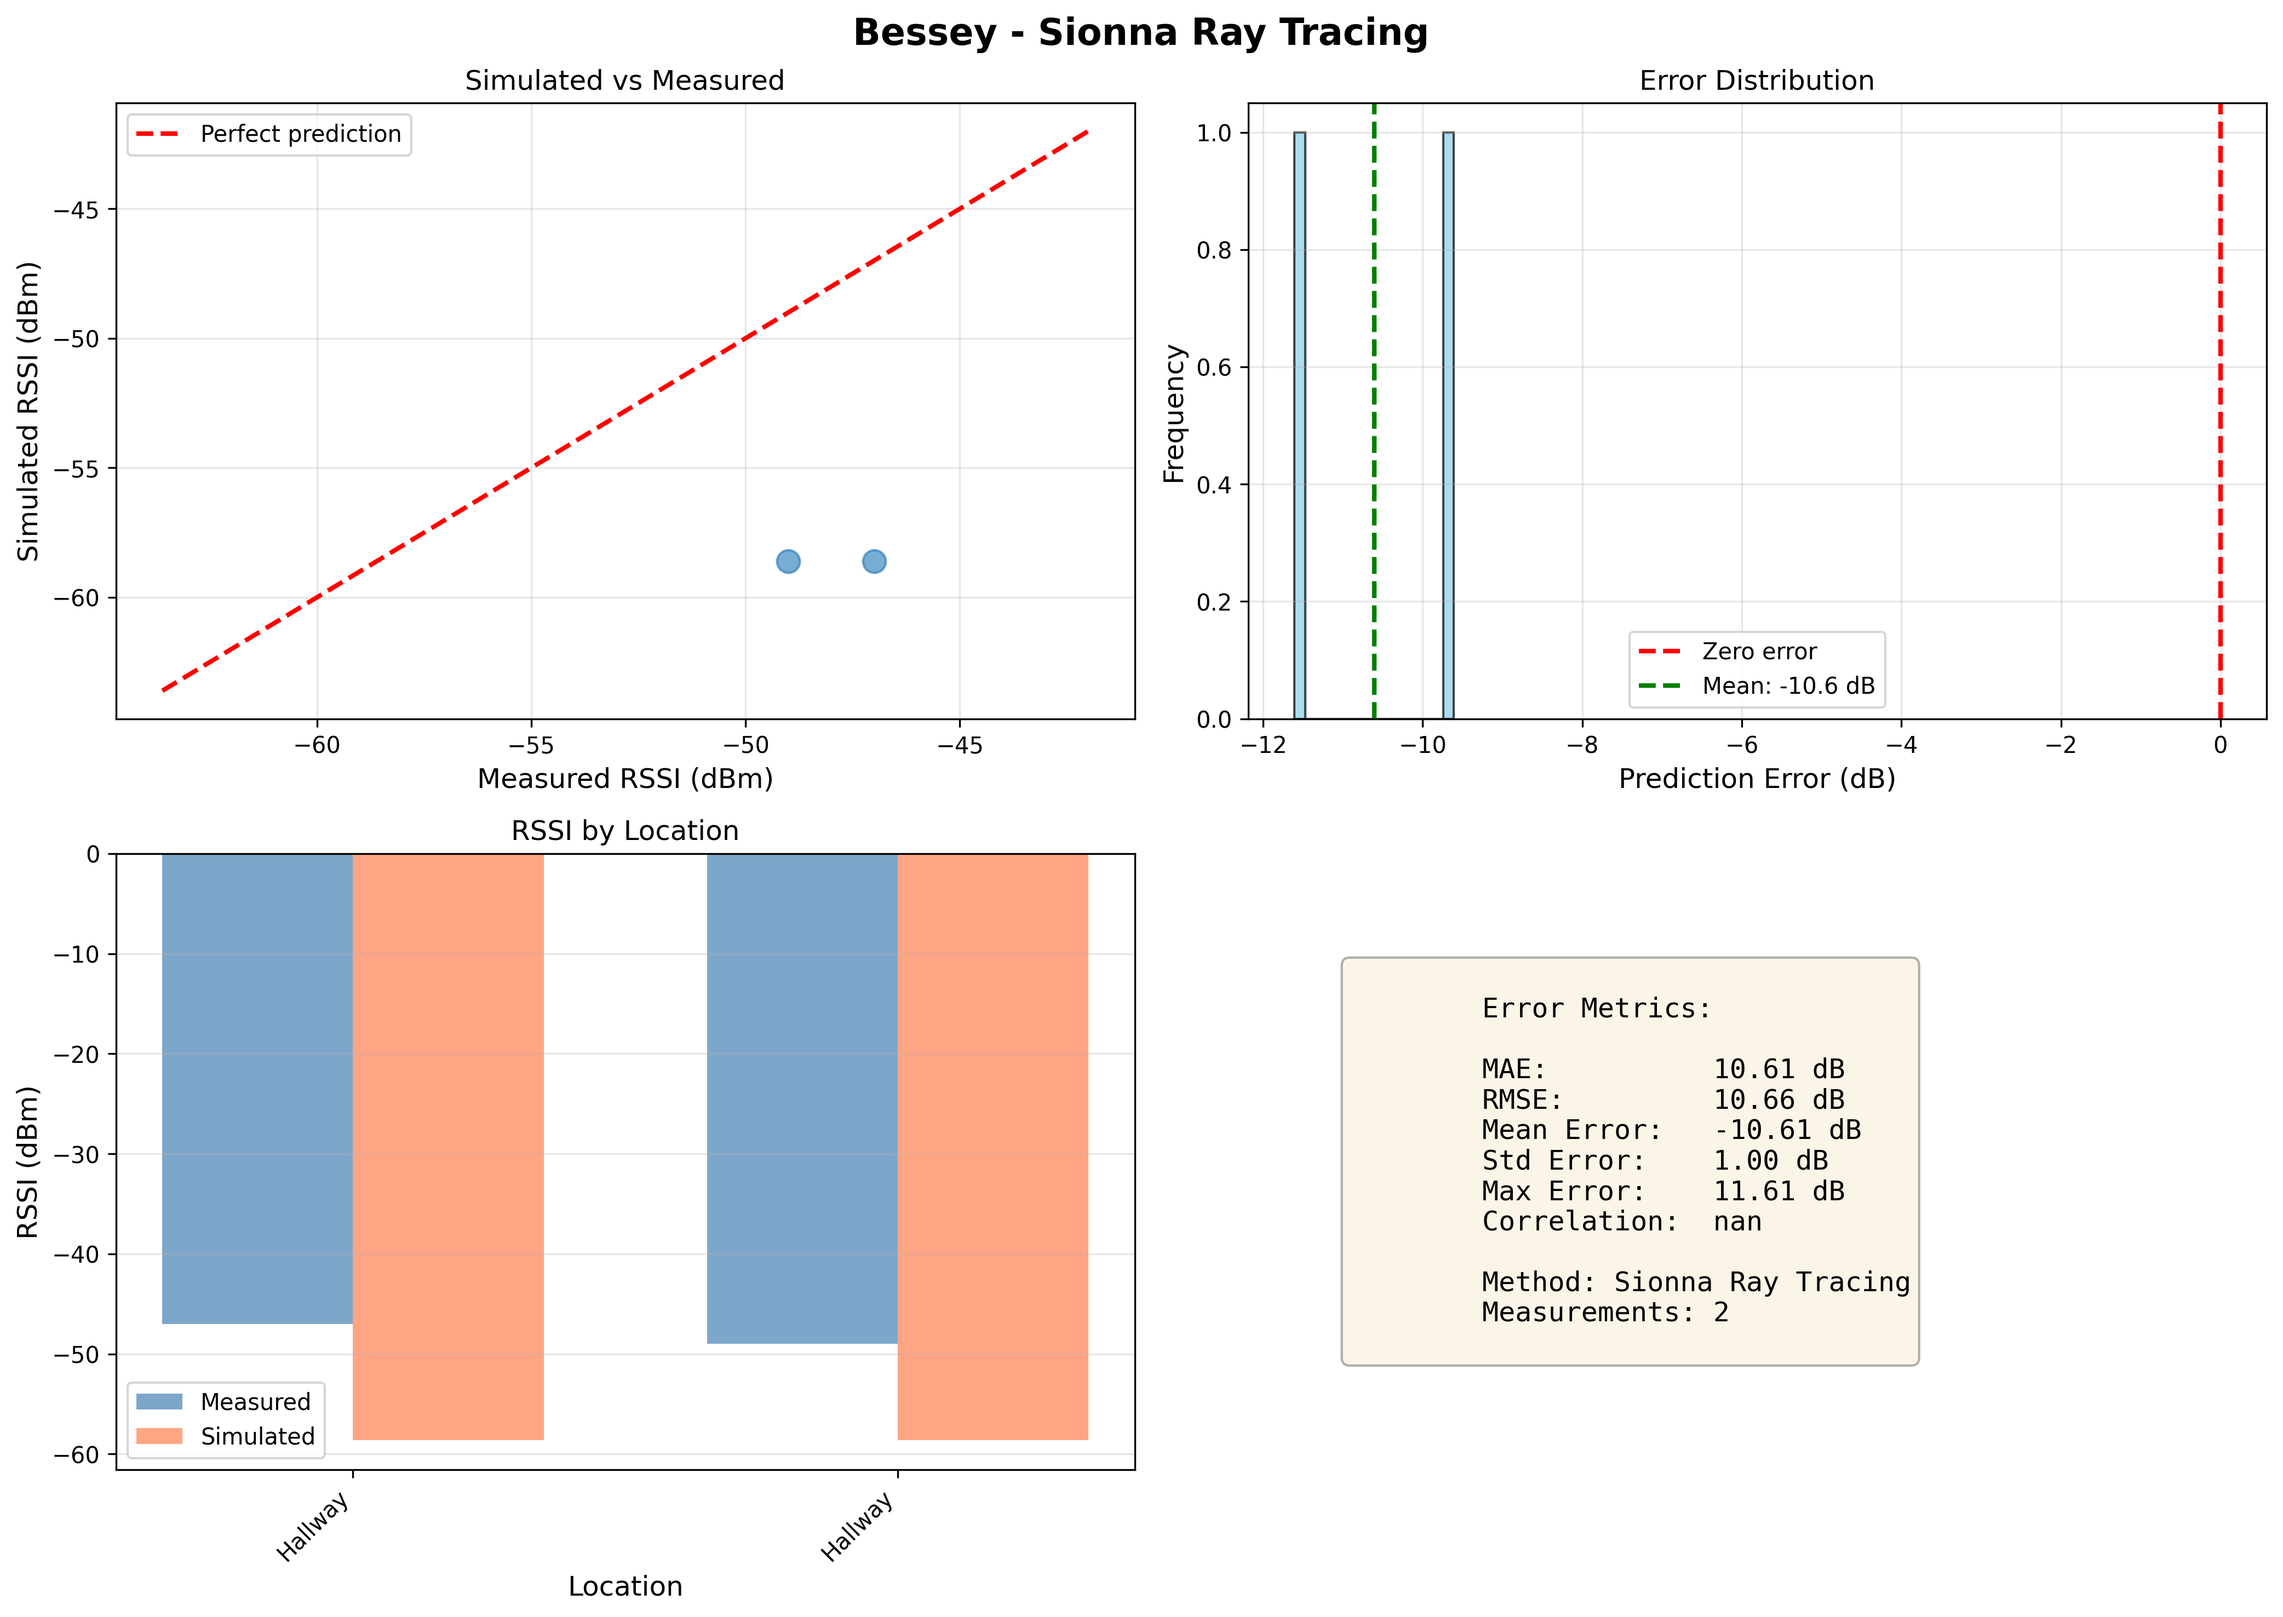
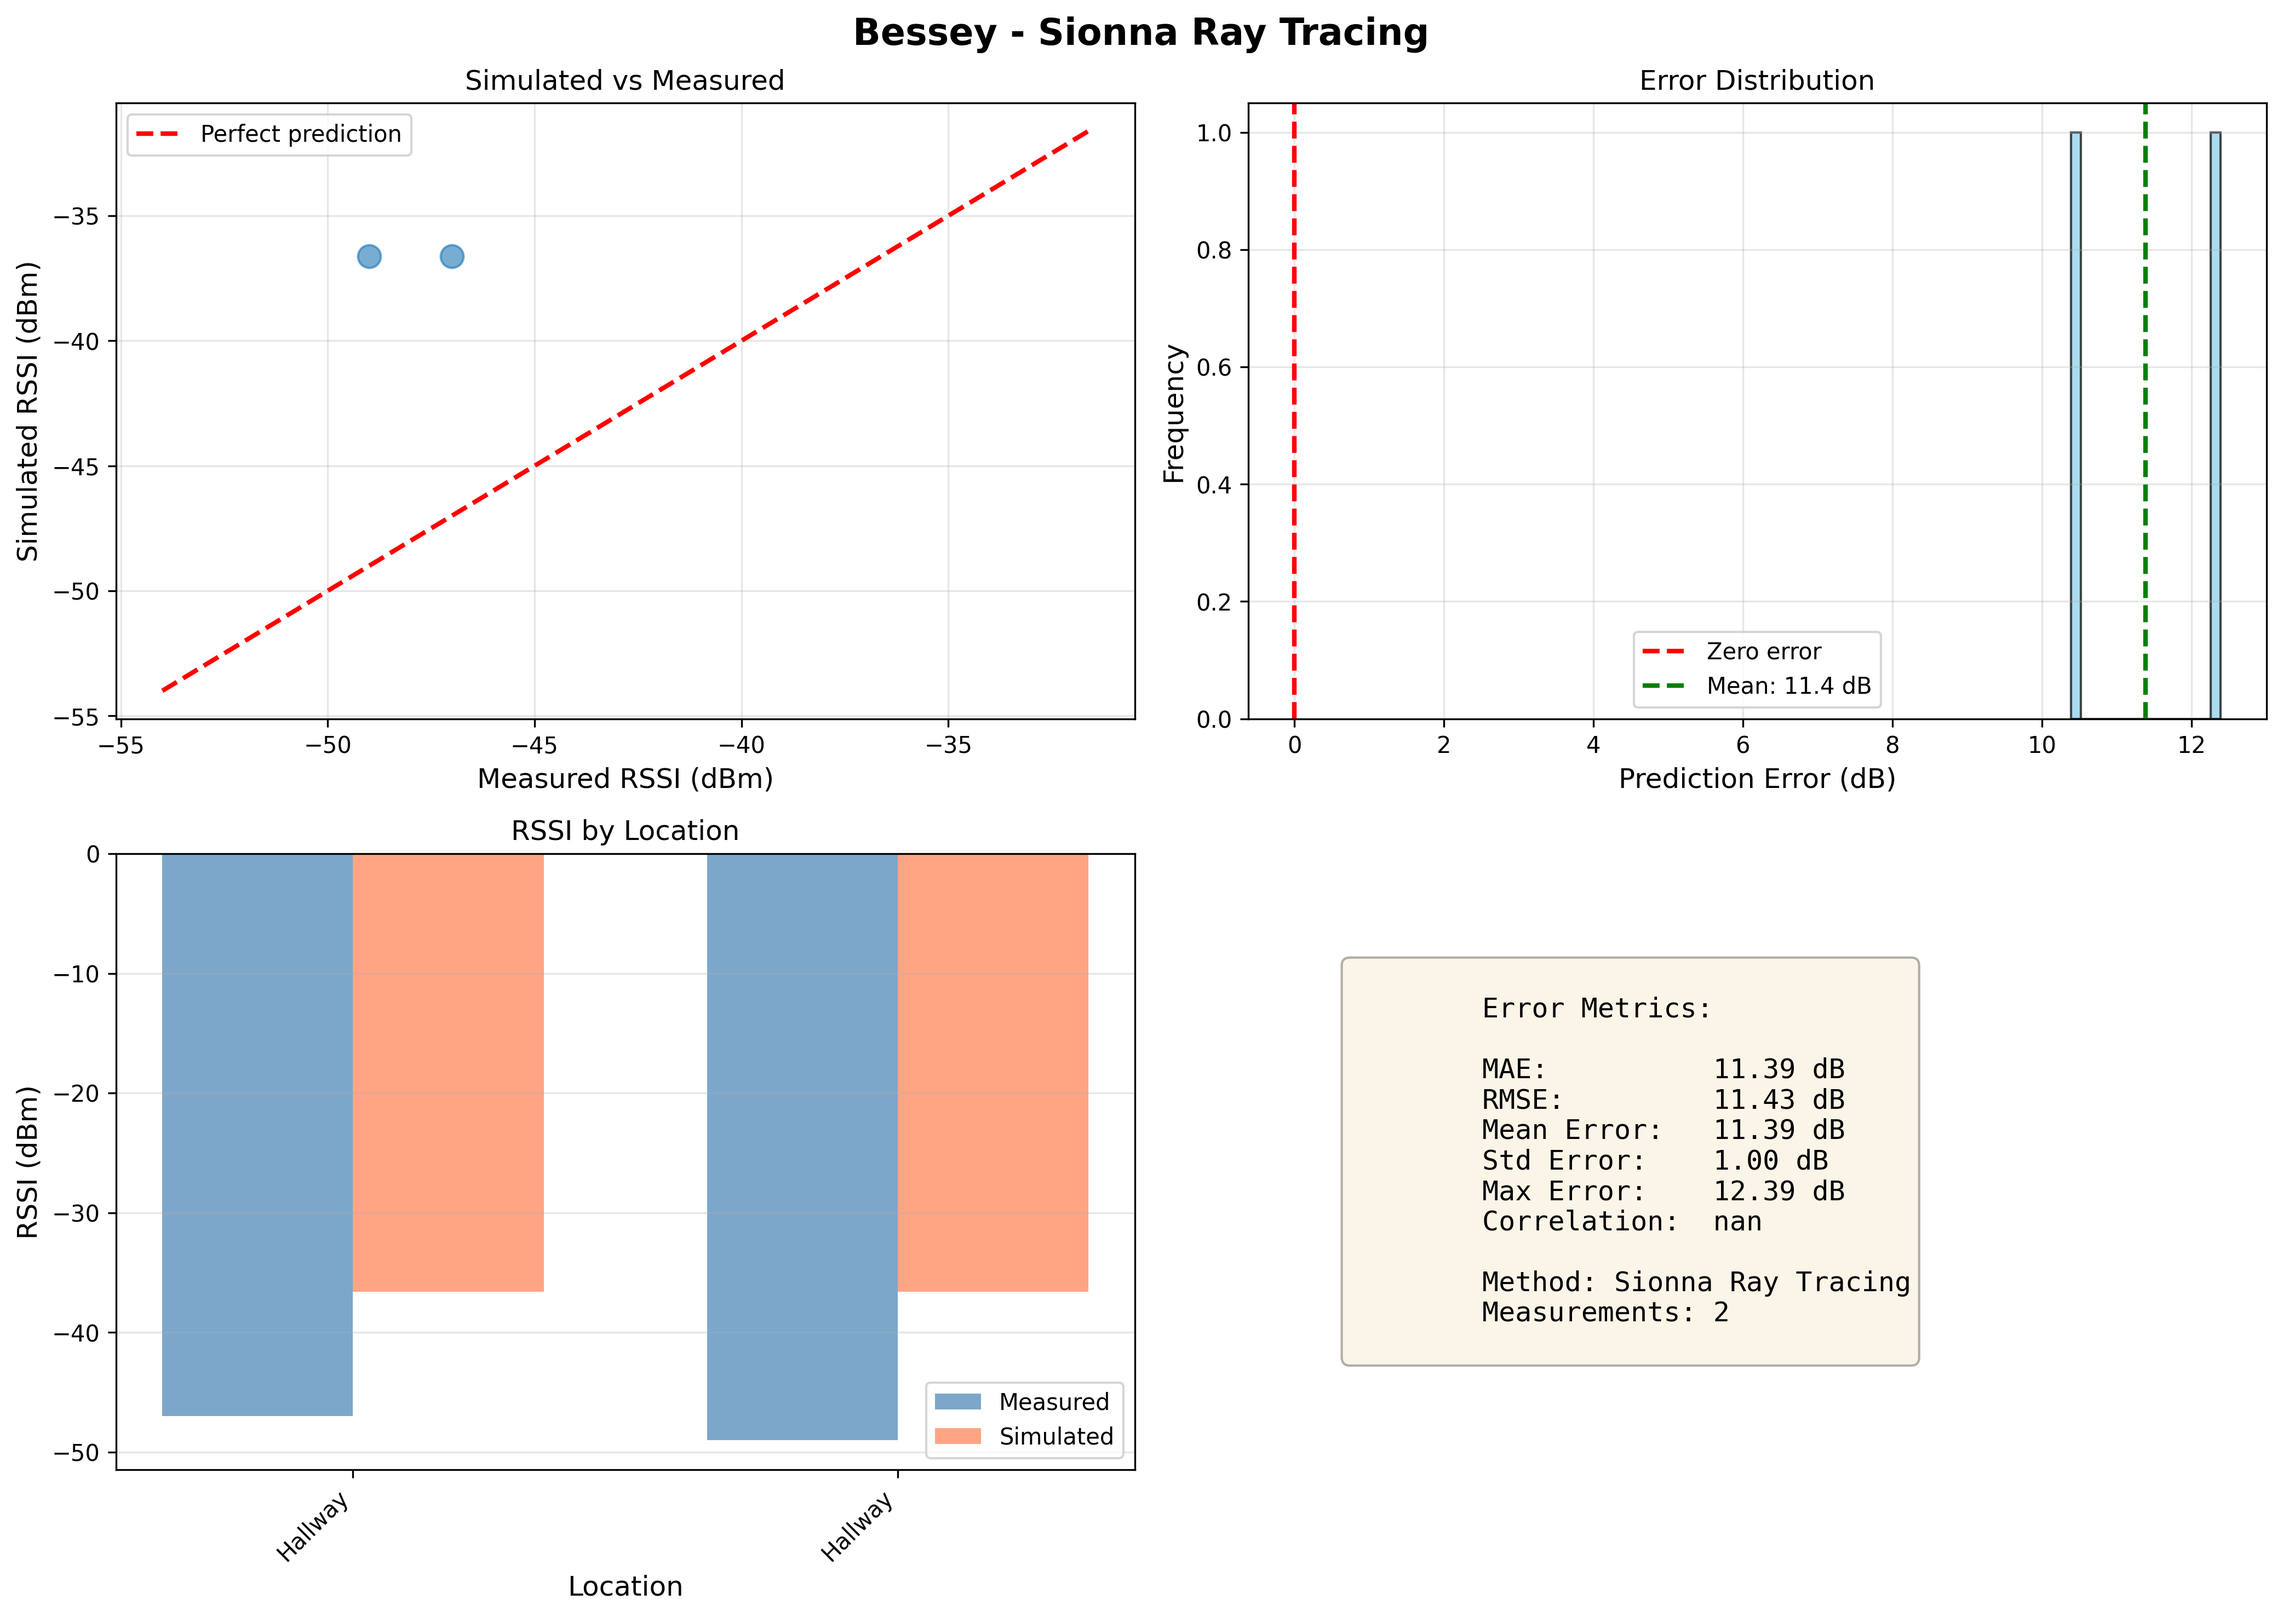
updated code with better transmitted power

diff --git a/scene_builder.py b/scene_builder.py
@@ -177,10 +177,10 @@ def create_kiewit_scene():
     
     # Exterior walls (metal frame with glass)
     wall_thick = 0.3
-    scene.add_wall([0, W/2, 1.75], [L, wall_thick, 3.5], 'metal')
-    scene.add_wall([0, -W/2, 1.75], [L, wall_thick, 3.5], 'metal')
-    scene.add_wall([L/2, 0, 1.75], [wall_thick, W, 3.5], 'metal')
-    scene.add_wall([-L/2, 0, 1.75], [wall_thick, W, 3.5], 'metal')
+    scene.add_wall([0, W/2, 1.75], [L, wall_thick, 3.5], 'concrete')
+    scene.add_wall([0, -W/2, 1.75], [L, wall_thick, 3.5], 'concrete')
+    scene.add_wall([L/2, 0, 1.75], [wall_thick, W, 3.5], 'concrete')
+    scene.add_wall([-L/2, 0, 1.75], [wall_thick, W, 3.5], 'concrete')
     
     # Large windows (glass walls)
     scene.add_window([0, W/2, 1.75], [L*0.9, 0.1, 2.5], 'glass')

diff --git a/main.py b/main.py
@@ -61,7 +61,7 @@ CONFIG = {
     # to compensate for simplified building geometry (missing furniture, people, equipment)
     # and other unmodeled losses. Adjusted based on calibration with measured data.
     # Value of -5 dBm accounts for ~25 dB of unmodeled losses (furniture, people, multi-floor effects)
-    'tx_power_dbm': -5.0,  # Effective TX power (calibrated from measurements)
+    'tx_power_dbm': 17.0,  # Effective TX power (calibrated from measurements)
     'frequency_ghz': 5.0,
     # Auto-calibration: Adjust each building's simulation to match mean measured RSSI
     # This compensates for building-specific geometry quality differences
